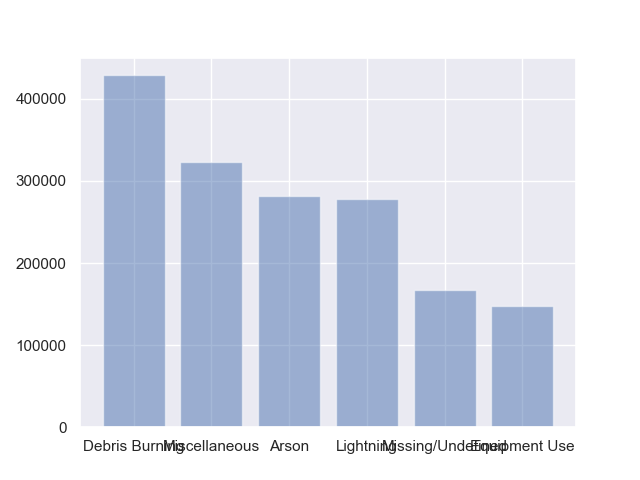
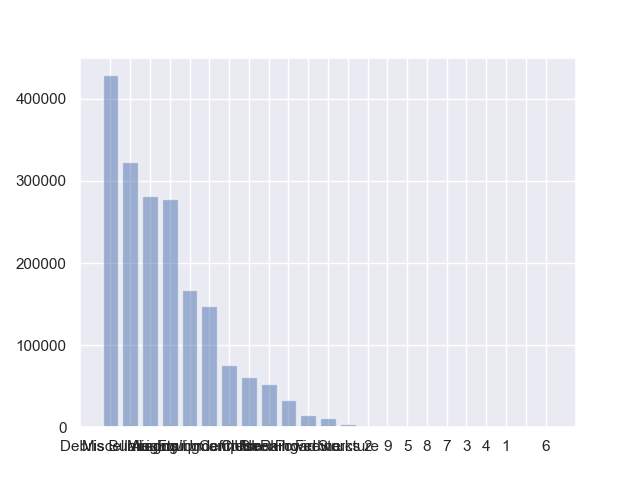
Added Comments and final method

Changed region(s): [[0.0938, 0.1562, 0.9062, 0.9688]]

diff --git a/fire_detection.py b/fire_detection.py
@@ -24,6 +24,8 @@ from sklearn.cluster import KMeans
 import seaborn as sns; sns.set()
 from pyspark.mllib.util import MLUtils
 from pyspark.mllib.evaluation import MulticlassMetrics
+from pyspark.sql.window import Window
+from pyspark.sql.functions import rank, col
 
 
 #Initialize a spark session.
@@ -76,6 +78,8 @@ def preprocessing():
 	
 	#Reading the csv file in spark dataframe
 	df = spark.read.csv('fires.csv', header='true')
+	window = Window.partitionBy(df['OBJECTID']).orderBy(df['STAT_CAUSE_DESCR'].desc())
+	df = df.select('*', rank().over(window).alias('rank')).filter(col('rank') <= 150000)
 	
 	#Taking the columns that are highly correlated between them 
 	df = df.select(df.columns[19:29] + df.columns[30:32] + df.columns[34:36])
@@ -137,8 +141,10 @@ def preprocessing_Fire_cause():
 	
 	#Reading the csv file in spark dataframe
 	df = spark.read.csv('fires.csv', header='true')
+	window = Window.partitionBy(df['OBJECTID']).orderBy(df['STAT_CAUSE_DESCR'].desc())
+	df = df.select('*', rank().over(window).alias('rank')).filter(col('rank') <= 150000)
 	
-	causeSeries = df.groupby(df.STAT_CAUSE_DESCR).count().filter("count >=100000").orderBy('count', ascending=False)
+	causeSeries = df.groupby(df.STAT_CAUSE_DESCR).count().orderBy('count', ascending=False)
 	stat = causeSeries.collect()
 	x= [i for i in range(len(stat))]
 	description = [i[0] for i in stat]
@@ -146,7 +152,6 @@ def preprocessing_Fire_cause():
 	plt.xticks(x, description)
 	plt.savefig('CauseOfFire.png')
 	
-	df = df.filter(~col('STAT_CAUSE_DESCR').isin(description))
 	
 	#Taking the columns that are highly correlated between them 
 	df = df.select(df.columns[19:20] + df.columns[21:22] + df.columns[26:27] + df.columns[23:24] + df.columns[29:32])
@@ -234,24 +239,12 @@ def randomForest_size():
 		
 	#Evaluation of Prediction label 
 	predictions = rfModel.transform(test)
+	evaluator = MulticlassClassificationEvaluator(labelCol="label", predictionCol="prediction", metricName="accuracy")
+	accuracy = evaluator.evaluate(predictions)
+	print("Test Error = %g" % (1.0 - accuracy))
 	
-	
-	# Instantiate metrics object
-	metrics = MulticlassMetrics(pd.dataframe(predictions, test.STAT_CAUSE_CODE))
 
-	# Overall statistics
-	precision = metrics.precision()
-	recall = metrics.recall()
-	f1Score = metrics.fMeasure()
-	print("Summary Stats")
-	print("Precision = %s" % precision)
-	print("Recall = %s" % recall)
-	print("F1 Score = %s" % f1Score)
-	#Calculating the 
-	#evaluator = BinaryClassificationEvaluator()
-	#print("Test Area Under ROC: " + str(evaluator.evaluate(predictions, {evaluator.metricName: "areaUnderROC"})))
-
-randomForest_size()
+#randomForest_size()
 
 
 
